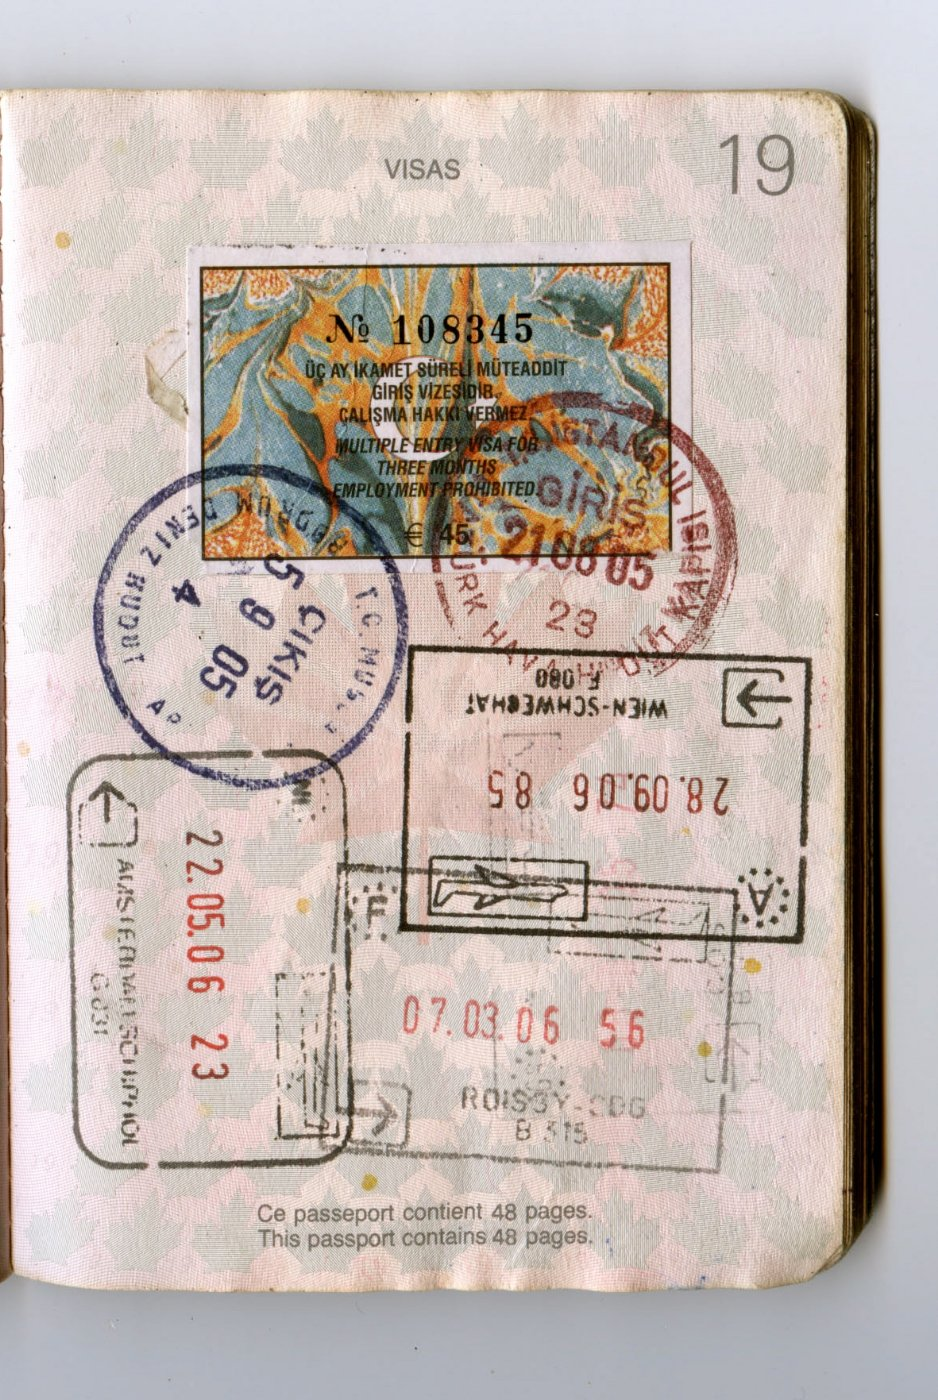
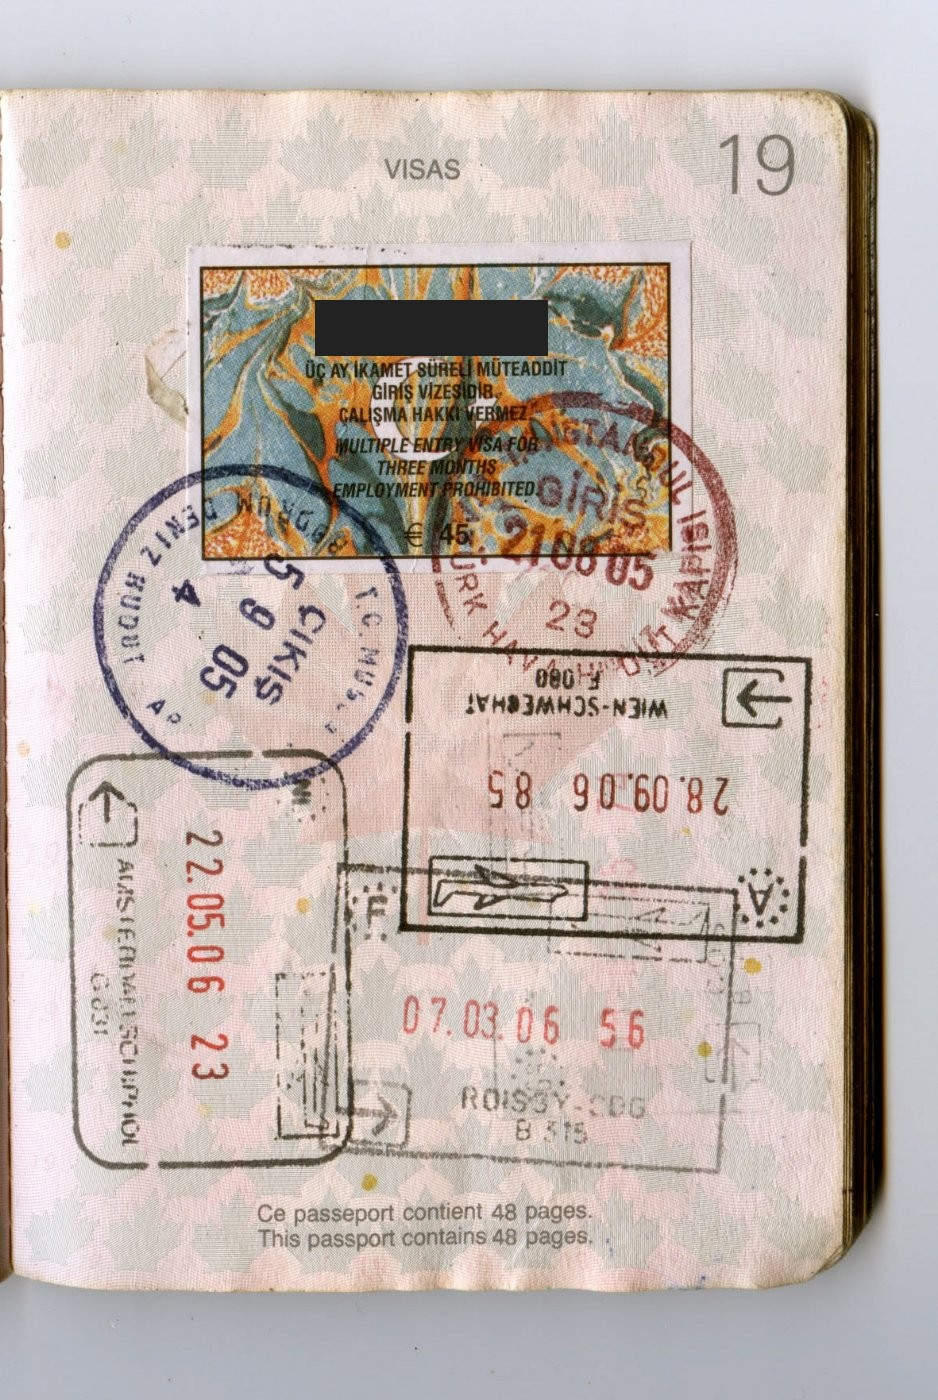
fix(demo): cover visa serial, receipt and handwritten numbers on sample pages

Changed region(s): [[0.3092, 0.215, 0.5874, 0.2764]]

diff --git a/apps/web/src/features/demo/sampleCredits.ts b/apps/web/src/features/demo/sampleCredits.ts
@@ -40,7 +40,7 @@ export const SAMPLE_CREDITS: SampleCredit[] = [
 		title: "Passport stamps 18-19.jpg",
 		url: `${COMMONS}Passport_stamps_18-19.jpg`,
 		...JON,
-		changes: PAGE(19),
+		changes: `${PAGE(19)}; the visa sticker's serial number covered`,
 	},
 	{
 		files: "sample-04.jpg",
@@ -54,14 +54,14 @@ export const SAMPLE_CREDITS: SampleCredit[] = [
 		title: "Passport pages 26-27.jpg",
 		url: `${COMMONS}Passport_pages_26-27.jpg`,
 		...JON,
-		changes: PAGE(27),
+		changes: `${PAGE(27)}; three handwritten numbers covered`,
 	},
 	{
 		files: "sample-06.jpg",
 		title: "Passport pages 28-29.jpg",
 		url: `${COMMONS}Passport_pages_28-29.jpg`,
 		...JON,
-		changes: PAGE(29),
+		changes: `${PAGE(29)}; the handwritten receipt number covered`,
 	},
 	{
 		files: "sample-07.jpg",

diff --git a/apps/web/public/demo/CREDITS.md b/apps/web/public/demo/CREDITS.md
@@ -2,16 +2,16 @@
 
 `page-*.png`, `demo.json` and `photo_locations.csv` are generated by `npm run demo:generate` (fictional data).
 
-The `sample-*.jpg` pages are crops of photos from Wikimedia Commons. Every crop shows a single stamp or visa page only. `samples.json` holds the stamps that `google/gemini-3.8-flash` read from them (see `docs/model-trial-2026-11.md`).
+The `sample-*.jpg` pages are crops of photos from Wikimedia Commons. Every crop shows a single stamp or visa page only; serial, receipt and handwritten numbers are covered. `samples.json` holds the stamps that `google/gemini-3.8-flash` read from them (see `docs/model-trial-2026-11.md`).
 
 | File | Source | Author | Licence | Changes |
 |---|---|---|---|---|
 | sample-01.jpg | [Passport pages 6-7.jpg](https://commons.wikimedia.org/wiki/File:Passport_pages_6-7.jpg) | Jon Rawlinson | [Public domain](https://creativecommons.org/publicdomain/mark/1.0/) | cropped to page 7, scaled to 1400 px high, saved as JPEG |
 | sample-02.jpg | [Passport pages 8-9.jpg](https://commons.wikimedia.org/wiki/File:Passport_pages_8-9.jpg) | Jon Rawlinson | [CC BY 2.0](https://creativecommons.org/licenses/by/2.0/) | cropped to page 9 (page 8, with a South African permit, left out), scaled to 1400 px high, saved as JPEG |
-| sample-03.jpg | [Passport stamps 18-19.jpg](https://commons.wikimedia.org/wiki/File:Passport_stamps_18-19.jpg) | Jon Rawlinson | [CC BY 2.0](https://creativecommons.org/licenses/by/2.0/) | cropped to page 19, scaled to 1400 px high, saved as JPEG |
+| sample-03.jpg | [Passport stamps 18-19.jpg](https://commons.wikimedia.org/wiki/File:Passport_stamps_18-19.jpg) | Jon Rawlinson | [CC BY 2.0](https://creativecommons.org/licenses/by/2.0/) | cropped to page 19; the Turkish visa sticker's serial number covered with a solid box; scaled to 1400 px high, saved as JPEG |
 | sample-04.jpg | [Passport stamps 20-21.jpg](https://commons.wikimedia.org/wiki/File:Passport_stamps_20-21.jpg) | Jon Rawlinson | [CC BY 2.0](https://creativecommons.org/licenses/by/2.0/) | cropped to page 21 (page 20, with a South African permit, left out), scaled to 1400 px high, saved as JPEG |
-| sample-05.jpg | [Passport pages 26-27.jpg](https://commons.wikimedia.org/wiki/File:Passport_pages_26-27.jpg) | Jon Rawlinson | [CC BY 2.0](https://creativecommons.org/licenses/by/2.0/) | cropped to page 27, scaled to 1400 px high, saved as JPEG |
-| sample-06.jpg | [Passport pages 28-29.jpg](https://commons.wikimedia.org/wiki/File:Passport_pages_28-29.jpg) | Jon Rawlinson | [CC BY 2.0](https://creativecommons.org/licenses/by/2.0/) | cropped to page 29, scaled to 1400 px high, saved as JPEG |
+| sample-05.jpg | [Passport pages 26-27.jpg](https://commons.wikimedia.org/wiki/File:Passport_pages_26-27.jpg) | Jon Rawlinson | [CC BY 2.0](https://creativecommons.org/licenses/by/2.0/) | cropped to page 27; three handwritten numbers covered with solid boxes; scaled to 1400 px high, saved as JPEG |
+| sample-06.jpg | [Passport pages 28-29.jpg](https://commons.wikimedia.org/wiki/File:Passport_pages_28-29.jpg) | Jon Rawlinson | [CC BY 2.0](https://creativecommons.org/licenses/by/2.0/) | cropped to page 29; the handwritten receipt number (O.R. No.) covered with a solid box; scaled to 1400 px high, saved as JPEG |
 | sample-07.jpg | [Passport pages 30-31.jpg](https://commons.wikimedia.org/wiki/File:Passport_pages_30-31.jpg) | Jon Rawlinson | [CC BY 2.0](https://creativecommons.org/licenses/by/2.0/) | cropped to page 31, scaled to 1400 px high, saved as JPEG |
 | sample-08.jpg | [Passport pages 46-47.jpg](https://commons.wikimedia.org/wiki/File:Passport_pages_46-47.jpg) | Jon Rawlinson | [CC BY 2.0](https://creativecommons.org/licenses/by/2.0/) | cropped to page 46; a number printed along the left edge covered; scaled to 1400 px high, saved as JPEG |
 | sample-09.jpg | [CroatiaDutchGermanySloveniaUSpassportstamps.jpg](https://commons.wikimedia.org/wiki/File:CroatiaDutchGermanySloveniaUSpassportstamps.jpg) | Vish Seshadri | [CC BY-SA 3.0](https://creativecommons.org/licenses/by-sa/3.0/) | cropped to page 6, saved as JPEG; this crop is CC BY-SA 3.0 too |

diff --git a/docs/adr/0021-commons-sample-pages-in-demo.md b/docs/adr/0021-commons-sample-pages-in-demo.md
@@ -11,7 +11,7 @@ The generated demo pages (ADR 0010) are clean drawings with stamps already revie
 ## Decision
 
 - The demo adds a second passport, "Sample stamps (Wikimedia Commons)" (`demo-samples`). It holds 10 single pages cropped from Commons photos under CC BY, CC BY-SA or public domain: `public/demo/sample-*.jpg`.
-- Only stamp and visa pages are used: no bio-data page, no name, face, MRZ or passport number. A number printed along a page edge is covered.
+- Only stamp and visa pages are used: no bio-data page, no name, face, MRZ or passport number. Numbers that could tie a page to a person (a number printed along a page edge, a visa serial number, a receipt number, handwritten numbers) are covered.
 - The stamps are the stored output of the default model (ADR 0020), parsed by the app's parser, in `public/demo/samples.json`. They are left unreviewed, so they never feed trips until the user reviews them, and loading them needs no API key.
 - Sources, authors, licences and changes are listed in `public/demo/CREDITS.md` and in the demo card. The same id prefixes as ADR 0010 apply, so loading and removing work as before.
 
